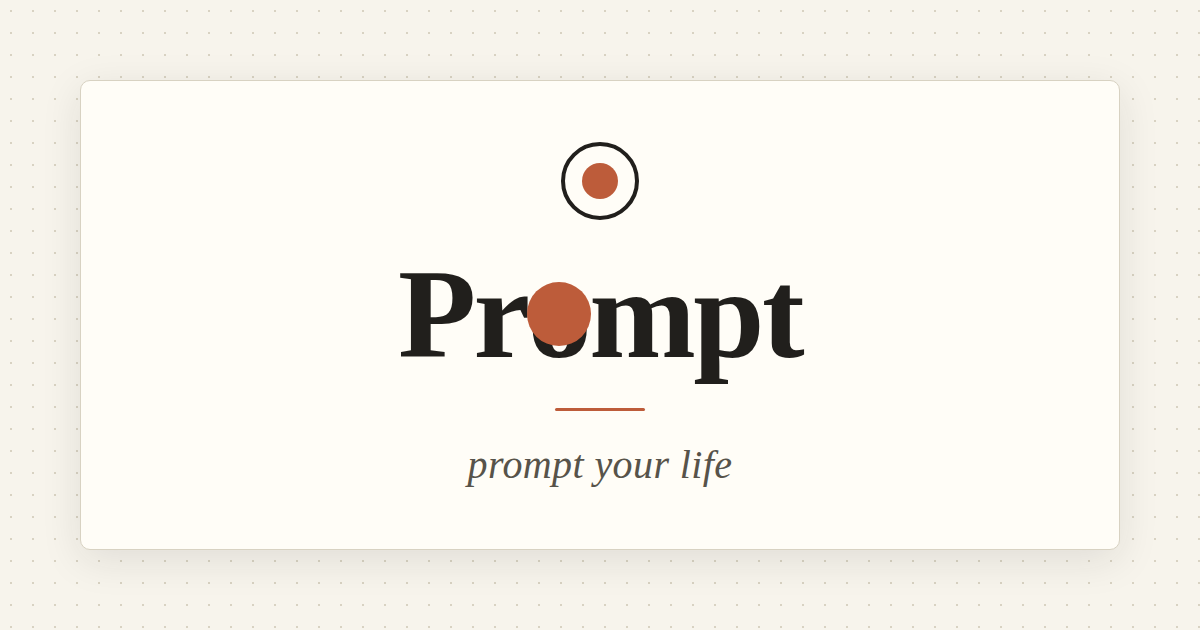
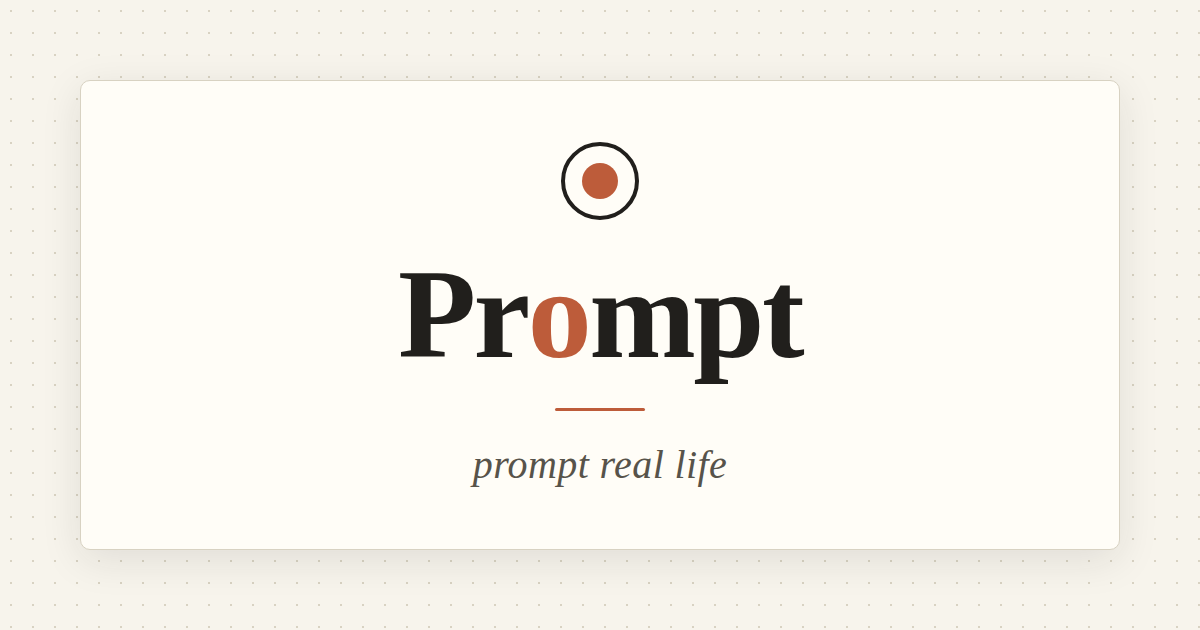
Fix off-center wordmark dot and update invite tagline to "prompt real life"
- PromptLogo no longer overlays a separate accent-colored circle on the
  "o" (which drifted off-center at large sizes, most visible in the
  share-card preview) — the "o" character itself is just colored accent
  now, so there's nothing to misalign regardless of font size.
- Regenerated public/og-image.png to match, and swapped the tagline
  everywhere it appears (OG/Twitter meta, invite page, profile invite
  button/share sheet) from "prompt your life" to "prompt real life".

Claude-Session: https://claude.ai/code/session_01FimVWvpbdX19V3rfvpghs3

Changed region(s): [[0.37, 0.6937, 0.6167, 0.7841], [0.4317, 0.4524, 0.4933, 0.573]]

diff --git a/index.html b/index.html
@@ -17,14 +17,14 @@
       href="https://fonts.googleapis.com/css2?family=Source+Serif+4:opsz,wght@8..60,400;8..60,500;8..60,600;8..60,700&family=Roboto+Slab:wght@700&family=Inter:wght@400;500;600;700&display=swap"
       rel="stylesheet"
     />
-    <title>Prompt — prompt your life</title>
+    <title>Prompt — prompt real life</title>
     <meta name="description" content="A little push, every day. Send a prompt, get a prompt, and watch your calendar fill up." />
 
     <!-- Open Graph / link-preview card (iMessage, WhatsApp, Slack, Facebook, etc.) -->
     <meta property="og:type" content="website" />
     <meta property="og:site_name" content="Prompt" />
     <meta property="og:title" content="Prompt" />
-    <meta property="og:description" content="prompt your life — a little push, every day." />
+    <meta property="og:description" content="prompt real life — a little push, every day." />
     <meta property="og:url" content="https://promptsocial-topaz.vercel.app/invite" />
     <meta property="og:image" content="https://promptsocial-topaz.vercel.app/og-image.png" />
     <meta property="og:image:width" content="1200" />
@@ -33,7 +33,7 @@
     <!-- Twitter/X card -->
     <meta name="twitter:card" content="summary_large_image" />
     <meta name="twitter:title" content="Prompt" />
-    <meta name="twitter:description" content="prompt your life — a little push, every day." />
+    <meta name="twitter:description" content="prompt real life — a little push, every day." />
     <meta name="twitter:image" content="https://promptsocial-topaz.vercel.app/og-image.png" />
   </head>
   <body>

diff --git a/src/components/PromptLogo.tsx b/src/components/PromptLogo.tsx
@@ -1,8 +1,8 @@
 import clsx from 'clsx'
 
 /**
- * Text-based recreation of the wordmark (bold slab serif "Prompt" with a
- * stamped accent dot over the "o") rather than a raster image, so it stays
+ * Text-based recreation of the wordmark (bold slab serif "Prompt" with the
+ * "o" in the app's accent color) rather than a raster image, so it stays
  * crisp at any size and reuses the app's own accent color token.
  */
 export function PromptLogo({ size = 28, className }: { size?: number; className?: string }) {
@@ -11,22 +11,7 @@ export function PromptLogo({ size = 28, className }: { size?: number; className?
       className={clsx('inline-flex items-baseline leading-none font-bold text-ink', className)}
       style={{ fontFamily: 'var(--font-slab)', fontSize: size, letterSpacing: '-0.01em' }}
     >
-      Pr
-      <span className="relative inline-block">
-        o
-        <span
-          aria-hidden
-          className="absolute rounded-full bg-accent"
-          style={{
-            width: '0.52em',
-            height: '0.52em',
-            top: '50%',
-            left: '50%',
-            transform: 'translate(-50%, -50%)',
-          }}
-        />
-      </span>
-      mpt
+      Pr<span className="text-accent">o</span>mpt
     </span>
   )
 }

diff --git a/src/pages/Profile.tsx b/src/pages/Profile.tsx
@@ -84,7 +84,7 @@ export function Profile() {
   async function handleInvite() {
     if (navigator.share) {
       try {
-        await navigator.share({ title: 'Prompt', text: 'prompt your life', url: inviteUrl })
+        await navigator.share({ title: 'Prompt', text: 'prompt real life', url: inviteUrl })
         return
       } catch {
         // user cancelled the share sheet — fall through to copy instead
@@ -172,7 +172,7 @@ export function Profile() {
         </span>
         <span className="flex-1">
           <span className="block text-sm font-medium">Invite friends to Prompt</span>
-          <span className="block text-xs text-ink-faint">prompt your life — share the link</span>
+          <span className="block text-xs text-ink-faint">prompt real life — share the link</span>
         </span>
         <span className="shrink-0 text-xs font-medium text-accent">{inviteCopied ? 'Copied!' : 'Share'}</span>
       </button>

diff --git a/src/pages/InviteLanding.tsx b/src/pages/InviteLanding.tsx
@@ -25,7 +25,7 @@ export function InviteLanding() {
         <div>
           <PromptLogo size={52} className="justify-center" />
           <div className="mx-auto mt-3 h-[3px] w-16 rounded-full bg-accent" />
-          <p className="mt-4 font-serif text-2xl italic text-ink-soft">prompt your life</p>
+          <p className="mt-4 font-serif text-2xl italic text-ink-soft">prompt real life</p>
         </div>
 
         <p className="text-sm leading-relaxed text-ink-soft">
